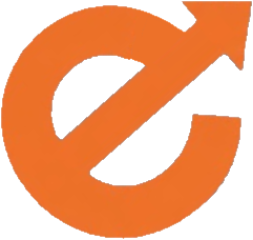
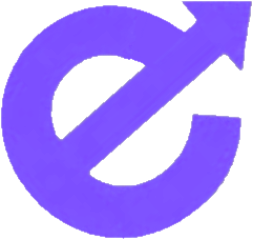
Rebrand: cambiar el naranja de marca por violeta + azul marino
- Tokens de acento en index.css pasan a una escala violeta (#7c4dff)
  y se ajustan --accent / --accent-soft para modo claro y oscuro.
- Reemplazar los naranjas escritos a mano en mapas, fondo maritimo,
  timeline, costos, operaciones, asesor y grafico de cuenta.
- Recolorear logos, iconos, favicon y la imagen de vista previa
  (og-image) a violeta; subir las versiones ?v= para romper cache.
- El canal naranja de selectividad aduanera se mantiene naranja:
  es un color semantico, no de marca.

diff --git a/src/index.css b/src/index.css
@@ -3,7 +3,7 @@
 
 /* ============================================================
    Exxim Alliance — Design tokens (paleta de marca)
-   Naranja + carbón del logo, con azul marino profundo.
+   Violeta + carbón del logo, con azul marino profundo.
    ============================================================ */
 @theme {
   --color-navy-950: #0a1a2b;
@@ -13,11 +13,11 @@
   --color-navy-600: #2b537d;
   --color-navy-500: #3f6a97;
 
-  --color-accent-700: #b4591a;
-  --color-accent-600: #d06b1f;
-  --color-accent-500: #e8742a;
-  --color-accent-400: #ef8f4e;
-  --color-accent-300: #f6b483;
+  --color-accent-700: #4c27b8;
+  --color-accent-600: #6338e0;
+  --color-accent-500: #7c4dff;
+  --color-accent-400: #9d7bff;
+  --color-accent-300: #c3adff;
 
   --color-ink-900: #16202b;
   --color-ink-700: #33414f;
@@ -50,8 +50,8 @@
   --heading: #0f243b;
   --text: #33414f;
   --text-muted: #5a6b7b;
-  --accent: #d06b1f;
-  --accent-soft: #fbeee3;
+  --accent: #6338e0;
+  --accent-soft: #efe9ff;
   --shadow-card: 0 1px 2px rgba(16, 32, 48, 0.04), 0 8px 24px -12px rgba(16, 32, 48, 0.16);
   --shadow-lift: 0 2px 4px rgba(16, 32, 48, 0.05), 0 18px 40px -18px rgba(16, 32, 48, 0.26);
   color-scheme: light;
@@ -67,8 +67,8 @@
   --heading: #eef3f8;
   --text: #c4d1dc;
   --text-muted: #8ba0b1;
-  --accent: #ef8f4e;
-  --accent-soft: #23303b;
+  --accent: #a98bff;
+  --accent-soft: #241e47;
   --shadow-card: 0 1px 2px rgba(0, 0, 0, 0.3), 0 10px 28px -14px rgba(0, 0, 0, 0.6);
   --shadow-lift: 0 2px 6px rgba(0, 0, 0, 0.35), 0 22px 48px -20px rgba(0, 0, 0, 0.7);
   color-scheme: dark;
@@ -229,11 +229,11 @@ p {
   .btn-primary {
     background: var(--color-accent-500);
     color: #fff;
-    box-shadow: 0 8px 18px -10px rgba(232, 116, 42, 0.75);
+    box-shadow: 0 8px 18px -10px rgba(124, 77, 255, 0.75);
   }
   .btn-primary:hover {
     background: var(--color-accent-600);
-    box-shadow: 0 14px 26px -10px rgba(232, 116, 42, 0.9);
+    box-shadow: 0 14px 26px -10px rgba(124, 77, 255, 0.9);
   }
   .btn-navy {
     background: var(--color-navy-900);
@@ -323,7 +323,7 @@ p {
   .input:focus {
     outline: none;
     border-color: var(--color-accent-500);
-    box-shadow: 0 0 0 3px rgba(232, 116, 42, 0.16);
+    box-shadow: 0 0 0 3px rgba(124, 77, 255, 0.16);
     background: var(--surface);
   }
   /* Selects con apariencia propia (caret custom) en vez del nativo. */

diff --git a/src/pages/portal/Operations.jsx b/src/pages/portal/Operations.jsx
@@ -155,7 +155,7 @@ export default function Operations() {
           border:1px solid var(--border);border-radius:9px;padding:.1rem .7rem;color:var(--text-muted);
           transition:border-color .16s ease, box-shadow .16s ease;}
         .filter-field:focus-within{border-color:var(--color-accent-500);
-          box-shadow:0 0 0 3px rgba(232,116,42,.14);}
+          box-shadow:0 0 0 3px rgba(124,77,255,.14);}
         .filter-field select,.filter-field input{border:0;background:transparent;color:var(--heading);
           font-size:.9rem;font-family:inherit;padding:.55rem 0;outline:none;min-width:0;}
         .filter-field select{appearance:none;-webkit-appearance:none;cursor:pointer;
@@ -176,7 +176,7 @@ export default function Operations() {
         .ops-id{font-family:ui-monospace,SFMono-Regular,Menlo,monospace;font-weight:600;color:var(--heading);font-size:.88rem;}
         .ops-type{display:inline-flex;align-items:center;gap:.35rem;font-size:.82rem;font-weight:600;padding:.25rem .55rem;border-radius:7px;}
         .ops-type--import{background:rgba(43,83,125,.12);color:var(--color-navy-600);}
-        .ops-type--export{background:rgba(232,116,42,.12);color:var(--color-accent-700);}
+        .ops-type--export{background:rgba(124,77,255,.12);color:var(--color-accent-700);}
         :root[data-theme='dark'] .ops-type--import{color:#7ba0c7;}
         :root[data-theme='dark'] .ops-type--export{color:var(--color-accent-400);}
         .ops-route{color:var(--text);}

diff --git a/src/pages/portal/Account.jsx b/src/pages/portal/Account.jsx
@@ -42,7 +42,7 @@ export default function Account() {
             <p className="t-muted" style={{ fontSize: '.84rem', marginTop: '.15rem' }}>{t('acc.chartHint')}</p>
           </div>
           <div className="acc-legend">
-            <span className="acc-leg"><span className="acc-leg-dot" style={{ background: '#e8742a' }} />{t('acc.legend.honorarios')}</span>
+            <span className="acc-leg"><span className="acc-leg-dot" style={{ background: '#7c4dff' }} />{t('acc.legend.honorarios')}</span>
             <span className="acc-leg"><span className="acc-leg-dot" style={{ background: '#1d3f63' }} />{t('acc.legend.tributos')}</span>
           </div>
         </header>
@@ -113,7 +113,7 @@ export default function Account() {
         .acc-bars{display:flex;gap:4px;align-items:flex-end;height:100%;width:100%;justify-content:center;}
         .acc-bar{width:36%;max-width:26px;border-radius:5px 5px 0 0;position:relative;min-height:4px;
           transition:filter .15s ease;}
-        .acc-bar-h{background:linear-gradient(180deg,#ef8f4e,#e8742a);}
+        .acc-bar-h{background:linear-gradient(180deg,#9d7bff,#7c4dff);}
         .acc-bar-t{background:linear-gradient(180deg,#2b537d,#1d3f63);}
         .acc-bar:hover{filter:brightness(1.08);}
         .acc-bar-tip{position:absolute;bottom:100%;left:50%;transform:translateX(-50%);margin-bottom:6px;

diff --git a/index.html b/index.html
@@ -2,8 +2,8 @@
 <html lang="es">
   <head>
     <meta charset="UTF-8" />
-    <link rel="icon" type="image/x-icon" href="/favicon.ico?v=2" />
-    <link rel="apple-touch-icon" href="/exximIcono.png" />
+    <link rel="icon" type="image/x-icon" href="/favicon.ico?v=3" />
+    <link rel="apple-touch-icon" href="/exximIcono.png?v=2" />
     <meta name="viewport" content="width=device-width, initial-scale=1.0, maximum-scale=1.0, user-scalable=no" />
     <meta name="theme-color" content="#0f243b" />
     <meta
@@ -18,12 +18,12 @@
       property="og:description"
       content="Estudio de comercio exterior en Buenos Aires. Un asesor dedicado a cada cliente y seguimiento online de cada operación."
     />
-    <meta property="og:image" content="/og-image.png" />
+    <meta property="og:image" content="/og-image.png?v=2" />
     <meta property="og:image:width" content="1287" />
     <meta property="og:image:height" content="1222" />
     <meta name="twitter:card" content="summary_large_image" />
     <meta name="twitter:title" content="Exxim Alliance SRL" />
-    <meta name="twitter:image" content="/og-image.png" />
+    <meta name="twitter:image" content="/og-image.png?v=2" />
     <link rel="preconnect" href="https://fonts.googleapis.com" />
     <link rel="preconnect" href="https://fonts.gstatic.com" crossorigin />
     <link

diff --git a/src/components/portal/TrackingMap.jsx b/src/components/portal/TrackingMap.jsx
@@ -50,8 +50,8 @@ function MovingMarker({ curve, progress }) {
   if (!pos) return null
   return (
     <>
-      <CircleMarker center={pos} radius={10} pathOptions={{ color: '#e8742a', weight: 3, fillColor: '#e8742a', fillOpacity: 0.25 }} />
-      <CircleMarker center={pos} radius={5} pathOptions={{ color: '#fff', weight: 2, fillColor: '#e8742a', fillOpacity: 1 }} />
+      <CircleMarker center={pos} radius={10} pathOptions={{ color: '#7c4dff', weight: 3, fillColor: '#7c4dff', fillOpacity: 0.25 }} />
+      <CircleMarker center={pos} radius={5} pathOptions={{ color: '#fff', weight: 2, fillColor: '#7c4dff', fillOpacity: 1 }} />
     </>
   )
 }
@@ -103,7 +103,7 @@ export default function TrackingMap({ operation }) {
         {/* Ruta completa punteada */}
         <Polyline positions={curve} pathOptions={{ color: '#5a6b7b', weight: 2, opacity: 0.5, dashArray: '3 7' }} />
         {/* Tramo recorrido */}
-        <Polyline positions={traveled} pathOptions={{ color: '#e8742a', weight: 3.5, opacity: 0.95 }} />
+        <Polyline positions={traveled} pathOptions={{ color: '#7c4dff', weight: 3.5, opacity: 0.95 }} />
 
         {/* Origen */}
         <CircleMarker center={[operation.origin.lat, operation.origin.lng]} radius={7}

diff --git a/src/components/ui/MaritimeBackdrop.jsx b/src/components/ui/MaritimeBackdrop.jsx
@@ -17,7 +17,7 @@ export default function MaritimeBackdrop({ className = '', opacity = 0.5 }) {
         </radialGradient>
         <linearGradient id="mb-line" x1="0" y1="0" x2="1" y2="0">
           <stop offset="0%" stopColor="#3f6a97" stopOpacity="0" />
-          <stop offset="50%" stopColor="#ef8f4e" stopOpacity="0.7" />
+          <stop offset="50%" stopColor="#9d7bff" stopOpacity="0.7" />
           <stop offset="100%" stopColor="#3f6a97" stopOpacity="0" />
         </linearGradient>
       </defs>
@@ -51,8 +51,8 @@ export default function MaritimeBackdrop({ className = '', opacity = 0.5 }) {
           [160, 500],
         ].map(([cx, cy], i) => (
           <g key={i}>
-            <circle cx={cx} cy={cy} r="9" fill="#ef8f4e" fillOpacity="0.14" />
-            <circle cx={cx} cy={cy} r="3.5" fill="#ef8f4e" />
+            <circle cx={cx} cy={cy} r="9" fill="#9d7bff" fillOpacity="0.14" />
+            <circle cx={cx} cy={cy} r="3.5" fill="#9d7bff" />
           </g>
         ))}
       </g>

diff --git a/src/components/ui/CorrespondentMap.jsx b/src/components/ui/CorrespondentMap.jsx
@@ -53,7 +53,7 @@ export default function CorrespondentMap() {
                 [home.coords.lat, home.coords.lng],
                 [c.coords.lat, c.coords.lng],
               ]}
-              pathOptions={{ color: '#e8742a', weight: 1.5, opacity: 0.55, dashArray: '4 6' }}
+              pathOptions={{ color: '#7c4dff', weight: 1.5, opacity: 0.55, dashArray: '4 6' }}
             />
           ))}
 
@@ -83,7 +83,7 @@ export default function CorrespondentMap() {
           <CircleMarker
             center={[home.coords.lat, home.coords.lng]}
             radius={10}
-            pathOptions={{ color: '#fff', weight: 2.5, fillColor: '#e8742a', fillOpacity: 1 }}
+            pathOptions={{ color: '#fff', weight: 2.5, fillColor: '#7c4dff', fillOpacity: 1 }}
           >
             <Tooltip direction="top" offset={[0, -6]} permanent>
               {L(home.name)}

diff --git a/src/components/portal/CostBreakdown.jsx b/src/components/portal/CostBreakdown.jsx
@@ -50,7 +50,7 @@ export default function CostBreakdown({ operation }) {
           flex-wrap:wrap;margin-bottom:.5rem;}
         .cost-tag{font-size:.72rem;font-weight:700;letter-spacing:.06em;text-transform:uppercase;
           padding:.28rem .6rem;border-radius:7px;}
-        .cost-tag--honorarios{background:rgba(232,116,42,.14);color:var(--color-accent-700);}
+        .cost-tag--honorarios{background:rgba(124,77,255,.14);color:var(--color-accent-700);}
         .cost-tag--tributos{background:rgba(43,83,125,.12);color:var(--color-navy-600);}
         .cost-tag--terceros{background:var(--surface-2);color:var(--text-muted);border:1px solid var(--border);}
         :root[data-theme='dark'] .cost-tag--honorarios{color:var(--color-accent-400);}

diff --git a/src/pages/portal/Advisor.jsx b/src/pages/portal/Advisor.jsx
@@ -104,7 +104,7 @@ export default function Advisor() {
         .adv-textarea{width:100%;padding:.85rem;border:1px solid var(--border);border-radius:11px;
           background:var(--surface-2);color:var(--heading);font-family:inherit;font-size:.95rem;resize:vertical;}
         .adv-textarea:focus{outline:none;border-color:var(--color-accent-500);
-          box-shadow:0 0 0 3px rgba(232,116,42,.16);background:var(--surface);}
+          box-shadow:0 0 0 3px rgba(124,77,255,.16);background:var(--surface);}
         .adv-sent{display:flex;align-items:center;gap:.4rem;margin-top:1rem;color:var(--color-signal-green);
           font-size:.9rem;font-weight:500;background:rgba(46,158,107,.12);padding:.6rem .8rem;border-radius:9px;}
 

diff --git a/src/components/portal/Timeline.jsx b/src/components/portal/Timeline.jsx
@@ -65,7 +65,7 @@ export default function Timeline({ operation }) {
         .tl-done .tl-marker > :first-child{background:var(--color-signal-green);color:#fff;}
         .tl-done .tl-line{background:var(--color-signal-green);opacity:.5;}
         .tl-current .tl-marker > :first-child{background:var(--color-accent-500);color:#fff;
-          box-shadow:0 0 0 4px rgba(232,116,42,.2);}
+          box-shadow:0 0 0 4px rgba(124,77,255,.2);}
         .tl-pending .tl-marker > :first-child{background:var(--surface-2);border:1px solid var(--border);}
         .tl-pending .tl-label{color:var(--text-muted);font-weight:500;}
 

diff --git a/src/components/ui/Logo.jsx b/src/components/ui/Logo.jsx
@@ -14,7 +14,7 @@ export function BrandMark({ className = '', height = 34 }) {
 }
 
 /* Wordmark de texto (para fondos oscuros, siempre legible).
-   Reproduce la identidad: "e" y "m" en naranja; "xxi" en claro/carbón. */
+   Reproduce la identidad: "e" y "m" en violeta; "xxi" en claro/carbón. */
 export function Wordmark({ dark = false, className = '', size = '1.5rem' }) {
   // dark = fondo siempre oscuro (footer, panel navy). Si no, usa el color
   // de encabezado, que se adapta a los temas claro/oscuro.

diff --git a/src/components/ui/LocationMap.jsx b/src/components/ui/LocationMap.jsx
@@ -41,7 +41,7 @@ export default function LocationMap() {
         <CircleMarker
           center={[lat, lng]}
           radius={11}
-          pathOptions={{ color: '#fff', weight: 2.5, fillColor: '#e8742a', fillOpacity: 1 }}
+          pathOptions={{ color: '#fff', weight: 2.5, fillColor: '#7c4dff', fillOpacity: 1 }}
         >
           <Popup>
             <strong>{company.name}</strong>
